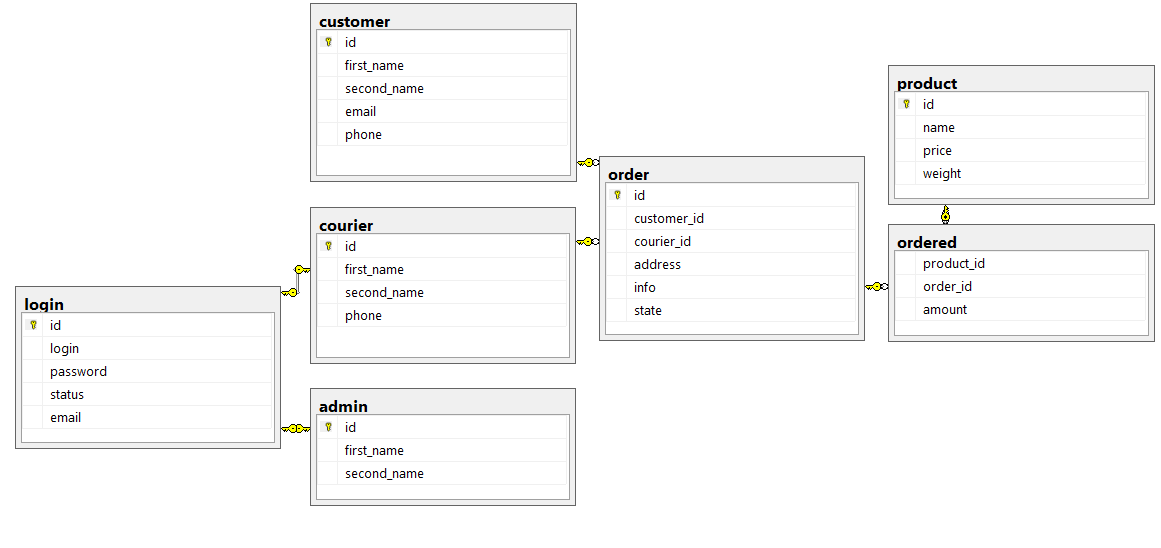
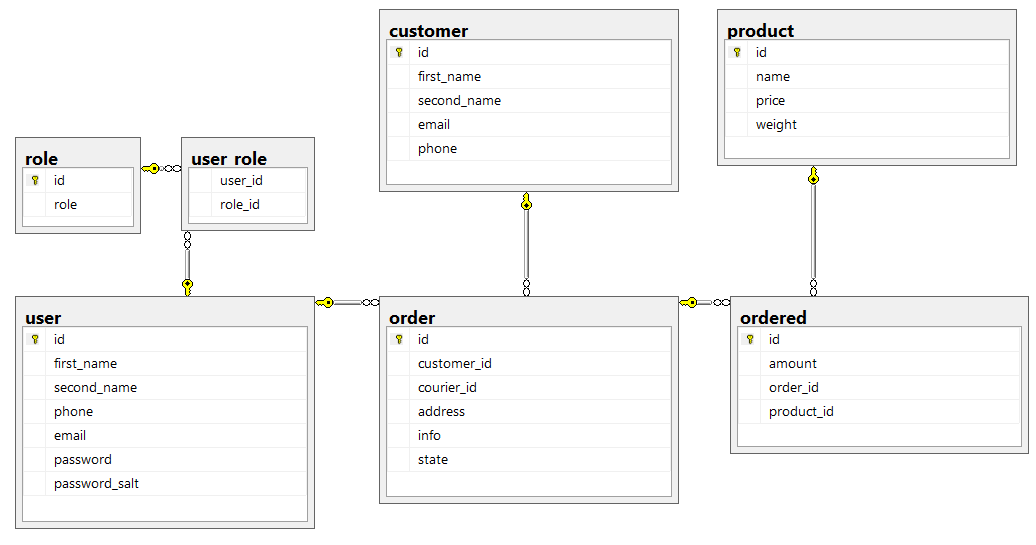
changed entities for roles

diff --git a/delivery_service/src/main/java/com/shichko/delivery_service/model/entity/User.java b/delivery_service/src/main/java/com/shichko/delivery_service/model/entity/User.java
@@ -7,7 +7,7 @@ import java.util.Collection;
 
 @Data
 @Entity
-public class Courier {
+public class User {
     @Id@GeneratedValue(strategy = GenerationType.IDENTITY)@Column(name = "id", nullable = false)
     private long id;
     @Basic@Column(name = "first_name", nullable = false, length = 50)
@@ -16,9 +16,15 @@ public class Courier {
     private String secondName;
     @Basic@Column(name = "phone", nullable = false, length = 20)
     private String phone;
-    @OneToOne@JoinColumn(name = "id", referencedColumnName = "id", nullable = false)
-    private Login loginById;
-    @OneToMany(mappedBy = "courier")
+    @Basic@Column(name = "email", nullable = false, length = 320)
+    private String email;
+    @Basic@Column(name = "password", nullable = false, length = 64)
+    private String password;
+    @Basic@Column(name = "password_salt", nullable = false, length = 64)
+    private String passwordSalt;
+    @OneToMany(mappedBy = "userByCourierId")
     private Collection<Order> ordersById;
+    @OneToMany(mappedBy = "userByRoleId")
+    private Collection<UserRole> userRolesById;
 
 }

diff --git a/delivery_service/src/main/java/com/shichko/delivery_service/model/entity/Order.java b/delivery_service/src/main/java/com/shichko/delivery_service/model/entity/Order.java
@@ -1,5 +1,6 @@
 package com.shichko.delivery_service.model.entity;
 
+import com.shichko.delivery_service.model.entity.enums.OrderState;
 import lombok.Data;
 
 import javax.persistence.*;
@@ -15,12 +16,13 @@ public class Order {
     @Basic@Column(name = "info", nullable = true, length = 255)
     private String info;
     @Basic@Column(name = "state", nullable = false)
-    private int state;
+    @Enumerated
+    private OrderState state;
     @ManyToOne@JoinColumn(name = "customer_id", referencedColumnName = "id", nullable = false)
-    private Customer customer;
+    private Customer customerByCustomerId;
     @ManyToOne@JoinColumn(name = "courier_id", referencedColumnName = "id")
-    private Courier courier;
-    @OneToMany(mappedBy = "order")
-    private Collection<Ordered> ordered;
+    private User userByCourierId;
+    @OneToMany(mappedBy = "orderByOrderId")
+    private Collection<Ordered> orderedById;
 
 }

diff --git a/delivery_service/src/main/java/com/shichko/delivery_service/model/entity/Ordered.java b/delivery_service/src/main/java/com/shichko/delivery_service/model/entity/Ordered.java
@@ -7,13 +7,13 @@ import javax.persistence.*;
 @Data
 @Entity
 public class Ordered {
-    @Basic@Column(name = "amount", nullable = false)
-    private int amount;
     @Id@GeneratedValue(strategy = GenerationType.IDENTITY)@Column(name = "id", nullable = false)
     private long id;
-    @ManyToOne@JoinColumn(name = "product_id", referencedColumnName = "id", nullable = false)
-    private Product product;
+    @Basic@Column(name = "amount", nullable = false)
+    private int amount;
     @ManyToOne@JoinColumn(name = "order_id", referencedColumnName = "id", nullable = false)
-    private Order order;
+    private Order orderByOrderId;
+    @ManyToOne@JoinColumn(name = "product_id", referencedColumnName = "id", nullable = false)
+    private Product productByProductId;
 
 }

diff --git a/delivery_service/src/main/java/com/shichko/delivery_service/model/entity/Product.java b/delivery_service/src/main/java/com/shichko/delivery_service/model/entity/Product.java
@@ -10,13 +10,13 @@ import java.util.Collection;
 public class Product {
     @Id@GeneratedValue(strategy = GenerationType.IDENTITY)@Column(name = "id", nullable = false)
     private long id;
-    @Basic@Column(name = "name", nullable = false, length = 50, unique = true)
+    @Basic@Column(name = "name", nullable = false, length = 50)
     private String name;
     @Basic@Column(name = "price", nullable = false, precision = 0)
     private double price;
     @Basic@Column(name = "weight", nullable = false, precision = 0)
     private double weight;
-    @OneToMany(mappedBy = "product")
-    private Collection<Ordered> ordered;
+    @OneToMany(mappedBy = "productByProductId")
+    private Collection<Ordered> orderedById;
 
 }

diff --git a/delivery_service/src/main/java/com/shichko/delivery_service/model/entity/UserRole.java b/delivery_service/src/main/java/com/shichko/delivery_service/model/entity/UserRole.java
@@ -1,0 +1,18 @@
+package com.shichko.delivery_service.model.entity;
+
+import lombok.Data;
+
+import javax.persistence.*;
+
+@Data
+@Entity
+@Table(name = "user_role", schema = "dbo", catalog = "delivery_database")
+public class UserRole {
+    @Id@GeneratedValue(strategy = GenerationType.IDENTITY)
+    @Column(name = "id", nullable = false)
+    private long id;
+    @ManyToOne@JoinColumn(name = "user_id", referencedColumnName = "id", nullable = false)
+    private Role roleByUserId;
+    @ManyToOne@JoinColumn(name = "role_id", referencedColumnName = "id", nullable = false)
+    private User userByRoleId;
+}

diff --git a/delivery_service/src/main/java/com/shichko/delivery_service/model/entity/Role.java b/delivery_service/src/main/java/com/shichko/delivery_service/model/entity/Role.java
@@ -1,0 +1,20 @@
+package com.shichko.delivery_service.model.entity;
+
+import com.shichko.delivery_service.model.entity.enums.RoleEnum;
+import lombok.Data;
+
+import javax.persistence.*;
+import java.util.Collection;
+
+@Data
+@Entity
+public class Role {
+    @Id@GeneratedValue(strategy = GenerationType.IDENTITY)@Column(name = "id", nullable = false)
+    private long id;
+    @Basic@Column(name = "role", nullable = false)
+    @Enumerated
+    private RoleEnum role;
+    @OneToMany(mappedBy = "roleByUserId")
+    private Collection<UserRole> userRolesById;
+
+}

diff --git a/delivery_service/src/main/java/com/shichko/delivery_service/model/entity/Customer.java b/delivery_service/src/main/java/com/shichko/delivery_service/model/entity/Customer.java
@@ -16,9 +16,9 @@ public class Customer {
     private String secondName;
     @Basic@Column(name = "email", nullable = false, length = 320)
     private String email;
-    @Basic@Column(name = "phone", nullable = false, length = 50, unique = true)
+    @Basic@Column(name = "phone", nullable = false, length = 50)
     private String phone;
-    @OneToMany(mappedBy = "customer")
+    @OneToMany(mappedBy = "customerByCustomerId")
     private Collection<Order> ordersById;
 
 }

diff --git a/delivery_service/src/main/java/com/shichko/delivery_service/model/repository/CustomerRepository.java b/delivery_service/src/main/java/com/shichko/delivery_service/model/repository/CustomerRepository.java
@@ -1,0 +1,7 @@
+package com.shichko.delivery_service.model.repository;
+
+import com.shichko.delivery_service.model.entity.Customer;
+import org.springframework.data.jpa.repository.JpaRepository;
+
+public interface CustomerRepository extends JpaRepository<Customer, Long> {
+}

diff --git a/delivery_service/src/main/java/com/shichko/delivery_service/model/repository/OrderRepository.java b/delivery_service/src/main/java/com/shichko/delivery_service/model/repository/OrderRepository.java
@@ -1,0 +1,7 @@
+package com.shichko.delivery_service.model.repository;
+
+import com.shichko.delivery_service.model.entity.Order;
+import org.springframework.data.jpa.repository.JpaRepository;
+
+public interface OrderRepository extends JpaRepository<Order, Long> {
+}

diff --git a/delivery_service/src/main/java/com/shichko/delivery_service/model/entity/enums/RoleEnum.java b/delivery_service/src/main/java/com/shichko/delivery_service/model/entity/enums/RoleEnum.java
@@ -1,0 +1,5 @@
+package com.shichko.delivery_service.model.entity.enums;
+
+public enum RoleEnum {
+    Admin, Courier
+}
